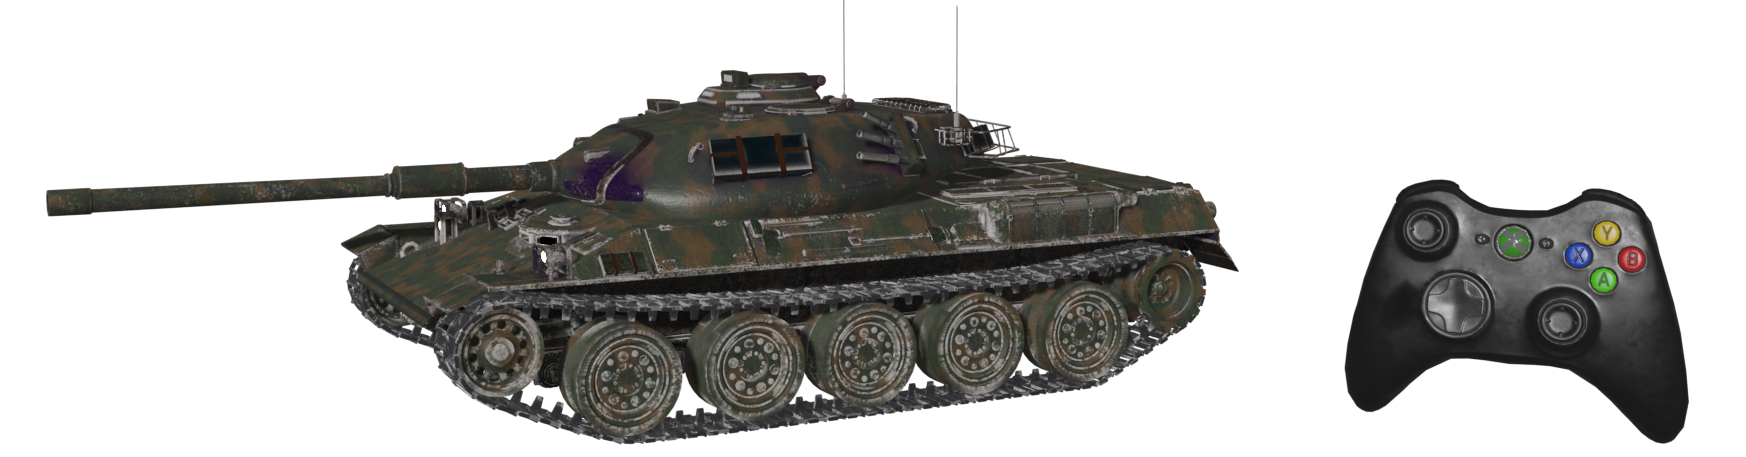
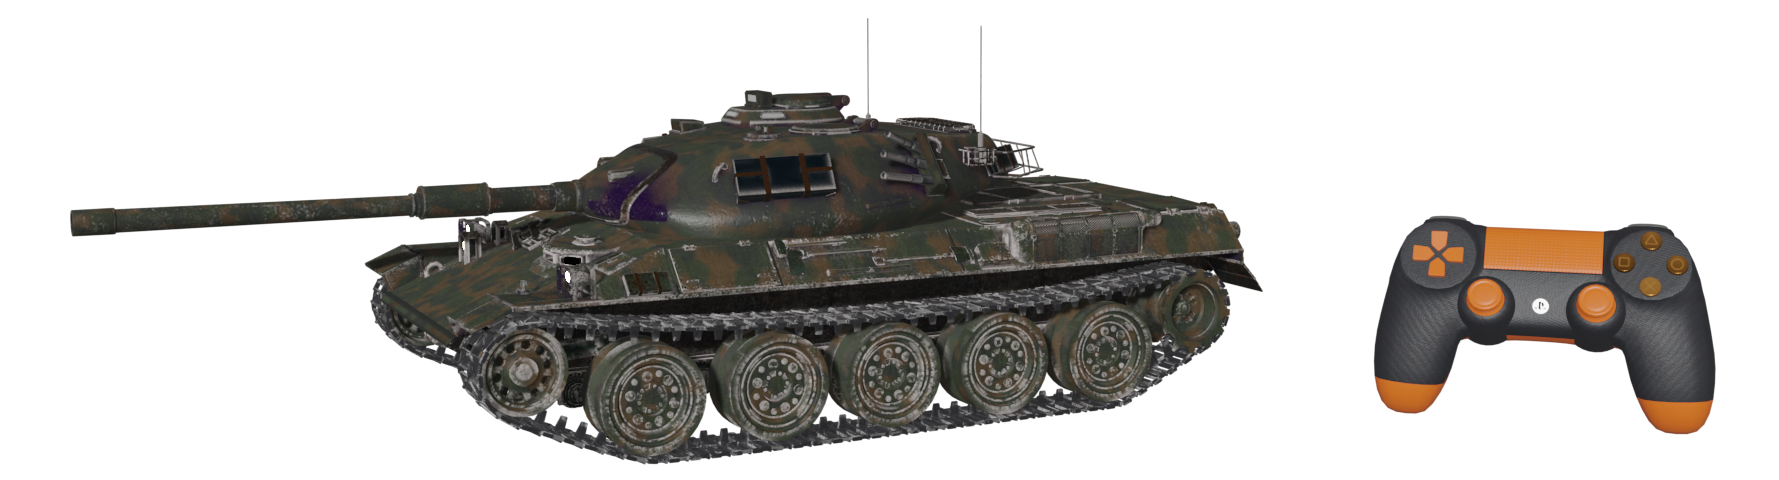
Add files via upload

Changed region(s): [[0.0, 0.1532, 0.7113, 0.9803], [0.7423, 0.3982, 0.9897, 0.9803]]

diff --git a/wotpad/index.html b/wotpad/index.html
@@ -55,34 +55,34 @@
     </div>
 </div>
 </div></div>
-<div style="clear:both"></div></div></div><div id="container_78bff89b"><div id="container_78bff89b_padding" ><div class="textstyle2"><img src="tank_gamepad.png" width="1746" height="457" id="img_634a35c5" alt="" title="" /></div>
-<div class="textstyle1"><span class="textstyle8">WOTPad 1.0</span><span class="textstyle9"><br/></span><span class="textstyle10">Add gamepad support to the &quot;World of Tanks&quot; game</span><span class="textstyle11">.</span><span class="textstyle12"><br/></span><a href="index.html#download" style="text-decoration:none"><div id="button_15f29634"><div class="vcenterstyle1"><div class="vcenterstyle2"><div class="textstyle1">  <span class="textstyle13">Download</span>
+<div style="clear:both"></div></div></div><div id="container_78bff89b"><div id="container_78bff89b_padding" ><div class="textstyle2"><img src="tank_gamepad.png" width="1779" height="480" id="img_6f123cbb" alt="" title="" /></div>
+<div class="textstyle1"><span class="textstyle8">WOTPad 1.0</span><span class="textstyle9"><br/></span><span class="textstyle10">Add gamepad support to the &quot;World of Tanks&quot; game.</span><span class="textstyle11"><br/></span><a href="index.html#download" style="text-decoration:none"><div id="button_15f29634"><div class="vcenterstyle1"><div class="vcenterstyle2"><div class="textstyle1">  <span class="textstyle12">Download</span>
 </div>
 <div class="textstyle2"></div>
 </div></div></div></a></div>
 <div style="clear:both"></div></div></div><div id="container_798910f0"><div id="container_798910f0_padding" ><div class="textstyle2"><h2 id="heading_30174d59">Features</h2><div id="anchor_3148d828"><a name="features"></a></div>
-<span class="textstyle14"><br/><br/>WOTPad translates gamepad events to keyboard and mouse events. For example, left stick movements are translated to WASD keys, right stick movements to gun/camera movements, and so on. It supports X-Box and DualShock compatible gamepads.<br/></span><img src="wotpad_screenshot.png" width="1977" height="1163" id="img_3f6c2d6e" alt="" title="" /><span class="textstyle14"><br/></span><h2 id="heading_41df46e">How to Use</h2><span class="textstyle14"><br/><br/></span><ul id="ul_36a80373" class="ulstyle1">
-<li><span class="textstyle14">Attach your gamepad via a USB cable or Bluetooth.</span></li>
-<li><span class="textstyle14">Run the WOTPad.exe application file, run the game and you are ready to play! </span></ul>
+<span class="textstyle13"><br/><br/>WOTPad translates gamepad events to keyboard and mouse events. For example, left stick movements are translated to WASD keys, right stick movements to gun/camera movements, and so on. It supports X-Box and DualShock compatible gamepads.<br/></span><img src="wotpad_screenshot.png" width="1977" height="1163" id="img_3f6c2d6e" alt="" title="" /><span class="textstyle13"><br/></span><h2 id="heading_41df46e">How to Use</h2><span class="textstyle13"><br/><br/></span><ul id="ul_36a80373" class="ulstyle1">
+<li><span class="textstyle13">Attach your gamepad via a USB cable or Bluetooth.</span></li>
+<li><span class="textstyle13">Run the WOTPad.exe application file, run the game and you are ready to play! </span></ul>
 </li>
-<span class="textstyle14"> <br/>WOTPad supports the default WoT keyboard/mouse keys automatically.  Additionally, you can easily re-assign the gamepad buttons for different game actions:<br/><br/></span><div id="container_15f9c727"><div id="container_15f9c727_padding" ><div class="textstyle2"><div id="container_1b166e26"><div id="container_1b166e26_padding" ><div class="textstyle2">  <span class="textstyle14">Select a button from the list of gamepad buttons.<br/></span>
+<span class="textstyle13"> <br/>WOTPad supports the default WoT keyboard/mouse keys automatically.  Additionally, you can easily re-assign the gamepad buttons for different game actions:<br/><br/></span><div id="container_15f9c727"><div id="container_15f9c727_padding" ><div class="textstyle2"><div id="container_1b166e26"><div id="container_1b166e26_padding" ><div class="textstyle2">  <span class="textstyle13">Select a button from the list of gamepad buttons.<br/></span>
 </div>
 </div></div><div id="container_4a065c39"><div id="container_4a065c39_padding" ><div class="textstyle2"><img src="select_from_list.png" width="598" height="488" id="img_7b547ce0" alt="" title="" /></div>
 <div style="clear:both"></div></div></div></div>
-<div style="clear:both"></div></div></div><div id="container_2145fd1"><div id="container_2145fd1_padding" ><div class="textstyle2"><div id="container_e90d421"><div id="container_e90d421_padding" ><div class="textstyle2">  <span class="textstyle14">Or, click a button on the gamepad image.<br/></span>
+<div style="clear:both"></div></div></div><div id="container_2145fd1"><div id="container_2145fd1_padding" ><div class="textstyle2"><div id="container_e90d421"><div id="container_e90d421_padding" ><div class="textstyle2">  <span class="textstyle13">Or, click a button on the gamepad image.<br/></span>
 </div>
 </div></div><div id="container_52d50cb9"><div id="container_52d50cb9_padding" ><div class="textstyle2"><img src="select_from_image.png" width="598" height="405" id="img_53d841d1" alt="" title="" /></div>
 <div style="clear:both"></div></div></div></div>
-<div style="clear:both"></div></div></div><div id="container_56e27b3b"><div id="container_56e27b3b_padding" ><div class="textstyle2"><div id="container_1854cff9"><div id="container_1854cff9_padding" ><div class="textstyle2">  <span class="textstyle14">Or, click 'Assign Button' and press a gamepad button.<br/></span>
+<div style="clear:both"></div></div></div><div id="container_56e27b3b"><div id="container_56e27b3b_padding" ><div class="textstyle2"><div id="container_1854cff9"><div id="container_1854cff9_padding" ><div class="textstyle2">  <span class="textstyle13">Or, click 'Assign Button' and press a gamepad button.<br/></span>
 </div>
 </div></div><div id="container_4fccc933"><div id="container_4fccc933_padding" ><div class="textstyle2"><img src="select_from_gamepad.png" width="598" height="473" id="img_6322fe62" alt="" title="" /></div>
 <div style="clear:both"></div></div></div></div>
-<div style="clear:both"></div></div></div><span class="textstyle14"><br/> </span></div>
+<div style="clear:both"></div></div></div><span class="textstyle13"><br/> </span></div>
 <div style="clear:both"></div></div></div><div id="container_54d940e3"><div id="container_54d940e3_padding" ><div class="textstyle2"><h2 id="heading_60e09244">Download</h2><div id="anchor_145e5370"><a name="download"></a></div>
-  <span class="textstyle14"><br/><br/>WOTPad does not require special installation. Just download the zip archive, unpack its contents to any folder and run the WOTPad.exe application file.<br/></span>
+  <span class="textstyle13"><br/><br/>WOTPad does not require special installation. Just download the zip archive, unpack its contents to any folder and run the WOTPad.exe application file.<br/></span>
   <a href="WOTPad.zip" style="text-decoration:none"><div id="button_1570e93">
     <div class="vcenterstyle1"><div class="vcenterstyle2">      <div class="textstyle1">
-        <span class="textstyle13">Download</span>
+        <span class="textstyle12">Download</span>
         </div>
       <div class="textstyle2">
         </div>
@@ -90,17 +90,17 @@
     </div></a>
 </div>
 <div style="clear:both"></div></div></div><div id="container_35a78225"><div id="container_35a78225_padding" ><div class="textstyle2"><h2 id="heading_63bafdd">Support</h2><div id="anchor_47758b79"><a name="support"></a></div>
-  <span class="textstyle14"><br/><br/>Join our Discord support channel, feel free to ask questions, share your expirience, submit bug reports.<br/></span>
+  <span class="textstyle13"><br/><br/>Join our Discord support channel, feel free to ask questions, share your expirience, submit bug reports.<br/></span>
   <a href="https://discord.gg/aWsxhyDr2s" target="_blank" style="text-decoration:none"><div id="button_1d02c053">
     <div class="vcenterstyle1"><div class="vcenterstyle2">      <div class="textstyle2">
         </div>
       <div class="textstyle1">
-        <span class="textstyle13">Join</span>
+        <span class="textstyle12">Join</span>
         </div>
       </div></div>
     </div></a>
 </div>
-<div style="clear:both"></div></div></div><div id="container_365f079f"><div id="container_365f079f_padding" ><div class="textstyle1">  <span class="textstyle15"> &#169; SolarBytes</span>
+<div style="clear:both"></div></div></div><div id="container_365f079f"><div id="container_365f079f_padding" ><div class="textstyle1">  <span class="textstyle14"> &#169; 2022 SolarBytes</span>
 </div>
 </div></div>  </div>
 </body>

diff --git a/wotpad/index_html.css b/wotpad/index_html.css
@@ -43,23 +43,22 @@ body { background-color:#FFFFFF; padding:0;  margin: 0; }
 .textstyle7 { font-size:12pt; font-family:Arial, Helvetica, sans-serif; color:#FFFFFF;  white-space: nowrap; }
 .style5 { position:absolute; width:90px; height:30px; left:92px;  }
 .style6 { position:absolute; width:75px; height:30px; left:182px;  }
-#container_78bff89b { vertical-align: top; position:relative; display: inline-block; width:100%; min-height:150px; max-width:900px; background-color:#808080; background: linear-gradient(to bottom, #E8E8E8, #808080);  }
+#container_78bff89b { vertical-align: top; position:relative; display: inline-block; width:100%; min-height:150px; max-width:900px; background-color:#000000; background: linear-gradient(to bottom, #F4765F, #000000);  }
 #container_78bff89b_padding { margin: 0px 10px 10px 10px;display: block;  }
-#img_634a35c5 { vertical-align: bottom; position:relative; display: inline-block; width:100%; background:none; height:auto;  }
-.textstyle8 { font-size:22pt; font-family:Arial, Helvetica, sans-serif; color:#303030; font-weight:bold; line-height: 1.5;  }
-.textstyle9 { font-size:12pt; font-family:Arial, Helvetica, sans-serif; color:#000000; line-height: 1.5;  }
-.textstyle10 { font-size:14pt; font-family:Arial, Helvetica, sans-serif; color:#000000; line-height: 1.5;  }
-.textstyle11 { font-size:14pt; font-family:Arial, Helvetica, sans-serif; color:#303030; line-height: 1.5;  }
-.textstyle12 { font-size:12pt; font-family:Arial, Helvetica, sans-serif; color:#303030; line-height: 1.5;  }
+#img_6f123cbb { vertical-align: bottom; position:relative; display: inline-block; width:100%; background:none; height:auto;  }
+.textstyle8 { font-size:22pt; font-family:Arial, Helvetica, sans-serif; color:#F2F2F2; font-weight:bold; line-height: 1.5; text-shadow: 2px 2px 2px #000000;  }
+.textstyle9 { font-size:12pt; font-family:Arial, Helvetica, sans-serif; color:#F2F2F2; line-height: 1.5;  }
+.textstyle10 { font-size:14pt; font-family:Arial, Helvetica, sans-serif; color:#F2F2F2; line-height: 1.5;  }
+.textstyle11 { font-size:12pt; font-family:Arial, Helvetica, sans-serif; color:#303030; line-height: 1.5;  }
 #button_15f29634 { vertical-align: bottom; border-radius: 9px; position:relative; display: inline-block; margin:10px 0px 0px 0px;width:150px; height:40px; background-color:#4AA65A;  }
 .vcenterstyle1 { display: table; width: 100%; height: 100%; }
 .vcenterstyle2 { display: table-cell; vertical-align: middle; }
-.textstyle13 { font-size:12pt; font-family:Arial, Helvetica, sans-serif; color:#FFFFFF;  }
+.textstyle12 { font-size:12pt; font-family:Arial, Helvetica, sans-serif; color:#FFFFFF;  }
 #container_798910f0 { vertical-align: top; position:relative; display: inline-block; width:100%; min-height:150px; max-width:900px; background-color:#F0F0F0;  }
 #container_798910f0_padding { margin: 10px; display: block;  }
 #heading_30174d59 { vertical-align: bottom; position:relative; display: inline-block; background:none; font-size:18pt; font-family:Arial, Helvetica, sans-serif; color:#000000; text-align:left; font-weight:bold;  }
 #anchor_3148d828 { vertical-align: top; position:relative; display: inline-block;  }
-.textstyle14 { font-size:12pt; font-family:Arial, Helvetica, sans-serif; color:#000000;  }
+.textstyle13 { font-size:12pt; font-family:Arial, Helvetica, sans-serif; color:#000000;  }
 #img_3f6c2d6e { vertical-align: bottom; position:relative; display: inline-block; margin:10px 0px 0px 0px;width:100%; background:none; height:auto;  }
 #heading_41df46e { vertical-align: bottom; position:relative; display: inline-block; background:none; font-size:18pt; font-family:Arial, Helvetica, sans-serif; color:#000000; text-align:left; font-weight:bold;  }
 .ulstyle1 { margin:0; font-size: 12pt; color:#000000;  }
@@ -84,16 +83,16 @@ body { background-color:#FFFFFF; padding:0;  margin: 0; }
 #container_4fccc933 { box-sizing: border-box; vertical-align: top; position:relative; display: inline-block; width:100%; background:none; border: 1px solid #DCDCDC;  }
 #container_4fccc933_padding { margin: 10px; display: block;  }
 #img_6322fe62 { vertical-align: bottom; position:relative; display: inline-block; width:100%; background:none; height:auto;  }
-#container_54d940e3 { vertical-align: top; position:relative; display: inline-block; width:100%; min-height:150px; max-width:900px; background-color:#CCFFE4;  }
+#container_54d940e3 { box-sizing: border-box; vertical-align: top; position:relative; display: inline-block; width:100%; min-height:150px; max-width:900px; background-color:#E9FFF3; border-top: 1px solid #C0C0C0; border-left: none; border-right: none; border-bottom: none;  }
 #container_54d940e3_padding { margin: 20px 10px 20px 10px;display: block;  }
 #heading_60e09244 { vertical-align: bottom; position:relative; display: inline-block; background:none; font-size:18pt; font-family:Arial, Helvetica, sans-serif; color:#000000; text-align:left; font-weight:bold;  }
 #anchor_145e5370 { vertical-align: top; position:relative; display: inline-block;  }
 #button_1570e93 { vertical-align: bottom; border-radius: 9px; position:relative; display: inline-block; margin:10px 0px 0px 0px;width:150px; height:40px; background-color:#4AA65A;  }
-#container_35a78225 { vertical-align: top; position:relative; display: inline-block; width:100%; min-height:150px; max-width:900px; background-color:#D1E8FE;  }
+#container_35a78225 { box-sizing: border-box; vertical-align: top; position:relative; display: inline-block; width:100%; min-height:150px; max-width:900px; background-color:#E3F1FE; border-top: 1px solid #C0C0C0; border-left: none; border-right: none; border-bottom: none;  }
 #container_35a78225_padding { margin: 20px 10px 20px 10px;display: block;  }
 #heading_63bafdd { vertical-align: bottom; position:relative; display: inline-block; background:none; font-size:18pt; font-family:Arial, Helvetica, sans-serif; color:#000000; text-align:left; font-weight:bold;  }
 #anchor_47758b79 { vertical-align: top; position:relative; display: inline-block;  }
 #button_1d02c053 { vertical-align: bottom; border-radius: 9px; position:relative; display: inline-block; margin:10px 0px 0px 0px;width:150px; height:40px; background-color:#0080FF;  }
 #container_365f079f { vertical-align: top; border-radius: 0px 0px 15px 15px; position:relative; display: inline-block; width:100%; min-height:26px; max-width:900px; background-color:#C0C0C0;  }
 #container_365f079f_padding { margin: 10px; display: block;  }
-.textstyle15 { font-size:10pt; font-family:Arial, Helvetica, sans-serif; color:#1D1D1D;  }
+.textstyle14 { font-size:10pt; font-family:Arial, Helvetica, sans-serif; color:#1D1D1D;  }
